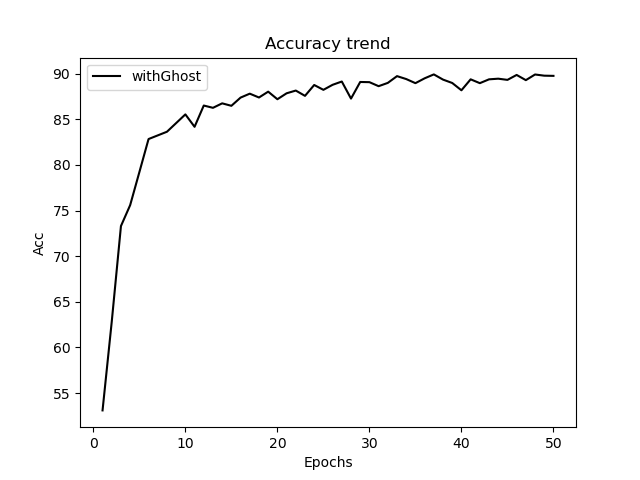
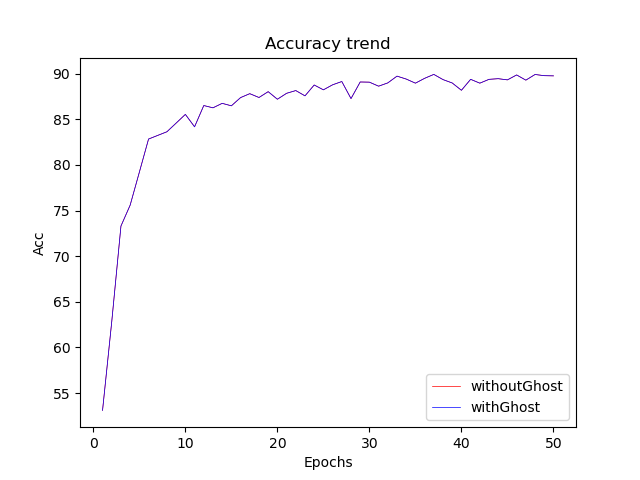
add all

diff --git a/senet.py b/senet.py
@@ -1,29 +1,63 @@
 import torch
 import torch.nn as nn
 import torch.nn.functional as F
+import math
+from trick import Swish
+
+# GhostModule
+class GhostModule(nn.Module):
+    def __init__(self, inp, oup, kernel_size=1, ratio=2, dw_size=3, stride=1, relu=True):
+        super(GhostModule, self).__init__()
+        self.oup = oup
+        init_channels = math.ceil(oup / ratio)
+        new_channels = init_channels*(ratio-1)
+
+        self.primary_conv = nn.Sequential(
+            nn.Conv2d(inp, init_channels, kernel_size, stride, kernel_size//2, bias=False),
+            nn.BatchNorm2d(init_channels),
+            nn.ReLU(inplace=True) if relu else nn.Sequential(),
+        )
+
+        self.cheap_operation = nn.Sequential(
+            nn.Conv2d(init_channels, new_channels, dw_size, 1, dw_size//2, groups=init_channels, bias=False),
+            nn.BatchNorm2d(new_channels),
+            nn.ReLU(inplace=True) if relu else nn.Sequential(),
+        )
+
+    def forward(self, x):
+        x1 = self.primary_conv(x)
+        x2 = self.cheap_operation(x1)
+        out = torch.cat([x1,x2], dim=1)
+        return out[:,:self.oup,:,:]
+
 
 # 基础残差
 class ResidualBlock(nn.Module):
     def __init__(self, inchannel, outchannel, stride=1):
         super(ResidualBlock, self).__init__()
         self.left = nn.Sequential(
-            nn.Conv2d(inchannel, outchannel, kernel_size=3, stride=stride, padding=1, bias=False),
+            # nn.Conv2d(inchannel, outchannel, kernel_size=3, stride=stride, padding=1, bias=False),
+            GhostModule(inchannel, outchannel, kernel_size=3, stride=stride),
             nn.BatchNorm2d(outchannel),
-            nn.ReLU(inplace=True),
-            nn.Conv2d(outchannel, outchannel, kernel_size=3, stride=1, padding=1, bias=False),
+            # nn.ReLU(inplace=True),
+            Swish(),
+            # nn.Conv2d(outchannel, outchannel, kernel_size=3, stride=1, padding=1, bias=False),
+            GhostModule(outchannel, outchannel, kernel_size=3, stride=1),
             nn.BatchNorm2d(outchannel)
         )
         self.shortcut = nn.Sequential()
         if stride != 1 or inchannel != outchannel:
             self.shortcut = nn.Sequential(
-                nn.Conv2d(inchannel, outchannel, kernel_size=1, stride=stride, bias=False),
+                # nn.Conv2d(inchannel, outchannel, kernel_size=1, stride=stride, bias=False),
+                GhostModule(inchannel, outchannel, kernel_size=1, stride=stride),
                 nn.BatchNorm2d(outchannel)
             )
 
     def forward(self, x):
         out = self.left(x)
         out = out + self.shortcut(x)
-        out = F.relu(out)
+        # out = F.relu(out)
+        out = out * F.sigmoid(out)
 
         return out
 
@@ -32,16 +66,20 @@ class ResidualBlock(nn.Module):
     def __init__(self, inchannel, outchannel, stride=1):
         super(ResidualBlock, self).__init__()
         self.left = nn.Sequential(
-            nn.Conv2d(inchannel, outchannel, kernel_size=3, stride=stride, padding=1, bias=False),
+            # nn.Conv2d(inchannel, outchannel, kernel_size=3, stride=stride, padding=1, bias=False),
+            GhostModule(inchannel, outchannel, kernel_size=3, stride=stride),
             nn.BatchNorm2d(outchannel),
-            nn.ReLU(inplace=True),
-            nn.Conv2d(outchannel, outchannel, kernel_size=3, stride=1, padding=1, bias=False),
+            # nn.ReLU(inplace=True),
+            Swish(),
+            # nn.Conv2d(outchannel, outchannel, kernel_size=3, stride=1, padding=1, bias=False),
+            GhostModule(outchannel, outchannel, kernel_size=3, stride=1),
             nn.BatchNorm2d(outchannel)
         )
         self.shortcut = nn.Sequential()
         if stride != 1 or inchannel != outchannel:
             self.shortcut = nn.Sequential(
-                nn.Conv2d(inchannel, outchannel, kernel_size=1, stride=stride, bias=False),
+                # nn.Conv2d(inchannel, outchannel, kernel_size=1, stride=stride, bias=False),
+                GhostModule(inchannel, outchannel, kernel_size=1, stride=stride),
                 nn.BatchNorm2d(outchannel)
             )
         # Se layers
@@ -60,7 +98,8 @@ class ResidualBlock(nn.Module):
         out = out * w
 
         out = out + self.shortcut(x)
-        out = F.relu(out)
+        # out = F.relu(out)
+        out = out * F.sigmoid(out)
 
         return out
 
@@ -72,7 +111,8 @@ class ResNet(nn.Module):
         self.conv1 = nn.Sequential(
             nn.Conv2d(3, 64, kernel_size=3, stride=1, padding=1, bias=False),
             nn.BatchNorm2d(64),
-            nn.ReLU()
+            # nn.ReLU()
+            Swish()
         )
         self.layer1 = self.make_layer(ResidualBlock, 64, 2, stride=1)
         self.layer2 = self.make_layer(ResidualBlock, 128, 2, stride=2)

diff --git a/gen.py b/gen.py
@@ -11,13 +11,19 @@ for i in range(50):
     epoch.append(i + 1)
 
 dataNotWithGhost = pd.read_csv('./withghost.csv', usecols=[0])
+dataWithGhost = pd.read_csv('./withoutghost.csv', usecols=[0])
 
 for index, row in dataNotWithGhost.iterrows():
     withGhost.append(float(row['with']))
 
+for index, row in dataNotWithGhost.iterrows():
+    withoutGhost.append(float(row['with']))
 
-# plt.plot(epoch, withoutGhost, color='r', label='withoutGhost')
-plt.plot(epoch, withGhost, color=(0, 0, 0), label='withGhost')
+print(withoutGhost)
+
+
+plt.plot(epoch, withoutGhost, linewidth=0.5, color='r', label='withoutGhost')
+plt.plot(epoch, withGhost,linewidth=0.5, color='b', label='withGhost')
 # plt.plot(epoch, withSwish, color='b', label='withSwish')
 # plt.plot(epoch, withSeNet, color='g', label='withSeNet')
 

diff --git a/run.py b/run.py
@@ -1,4 +1,4 @@
-from resnet18 import ResNet18
+from senet import ResNet18
 import torch.optim as optim
 import torchvision
 import torchvision.transforms as transforms
@@ -94,4 +94,4 @@ if __name__ == '__main__':
     print('Train has finished, total epoch is %d' % EPOCH)
 
     dataframe = pd.DataFrame({'with': without})
-    dataframe.to_csv('withoutghost.csv', index=False, sep=',')
+    dataframe.to_csv('withall.csv', index=False, sep=',')
